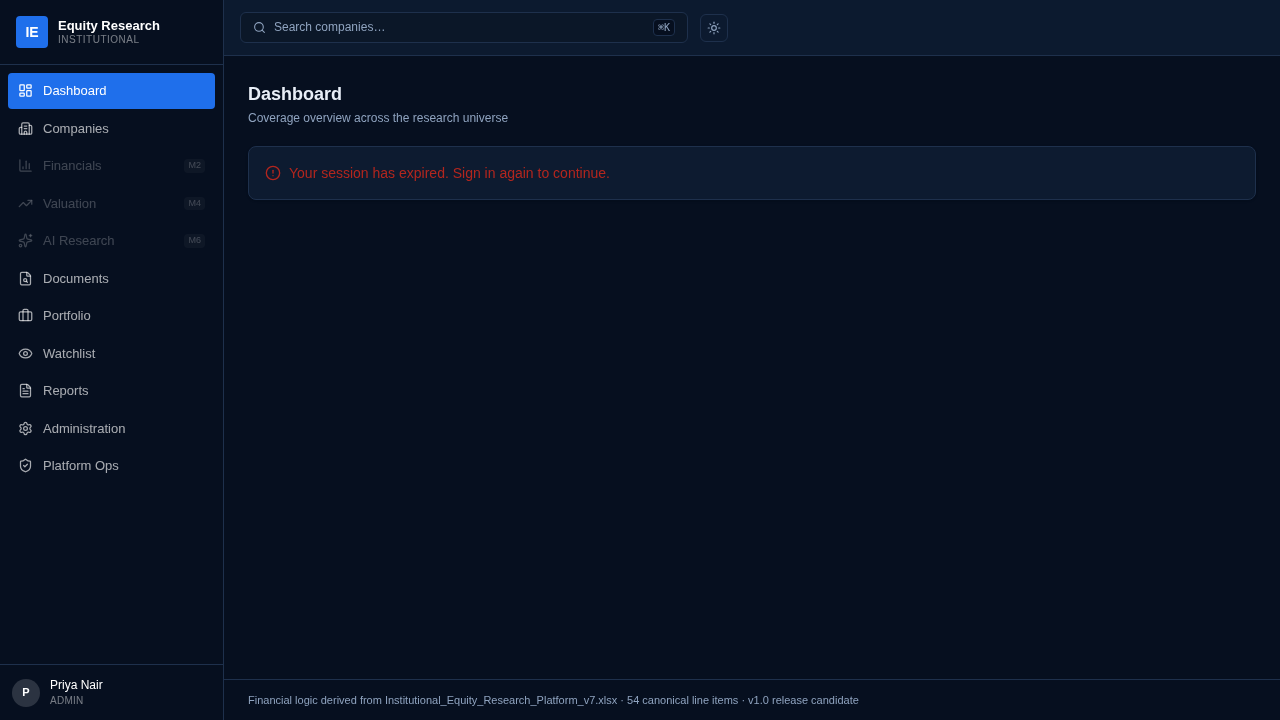
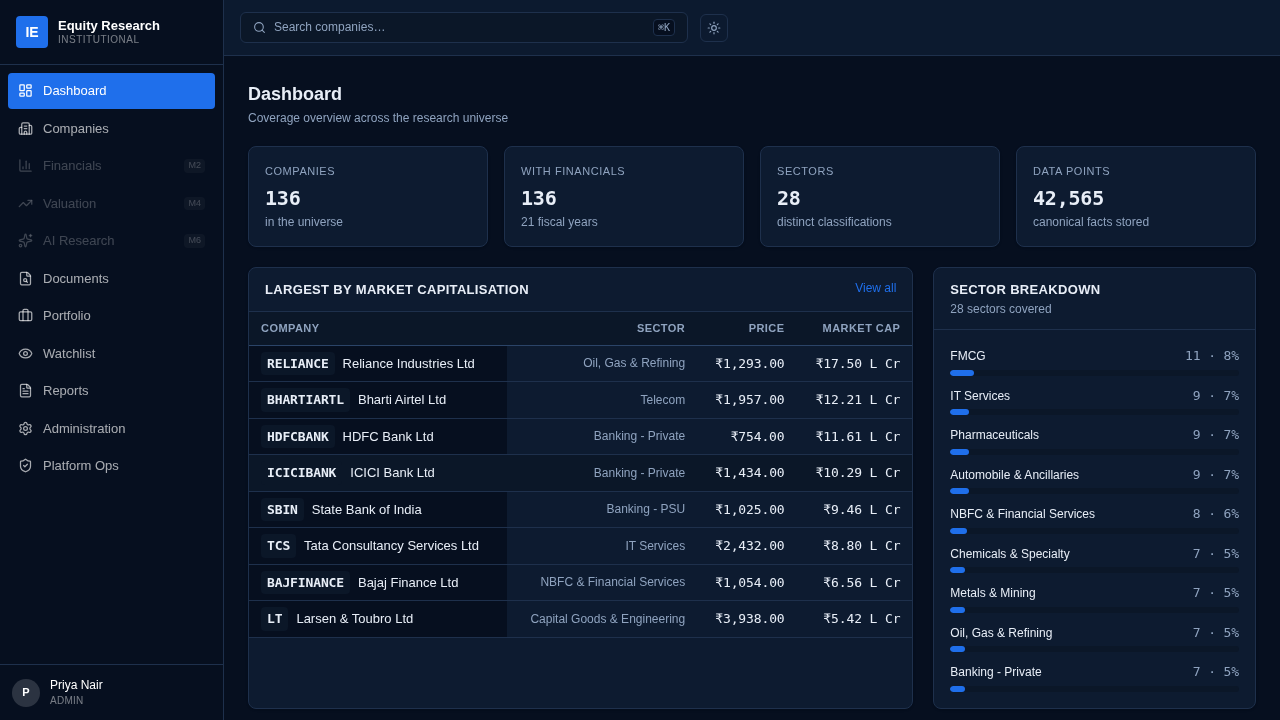
Document FE-001/FE-002: the frontend had no authentication path

diff --git a/docs/DEPLOYMENT_LIVE.md b/docs/DEPLOYMENT_LIVE.md
@@ -123,6 +123,35 @@ Plus platform seed data: 4 plans, 3 tenants, 9 users, 19,677 price rows.
 | **DEP-004** | Edge returned `502 Application failed to respond` while the container was healthy | Service domain targeted port 8000; uvicorn bound Railway's injected `PORT=8080` | Pinned `PORT=8000` to match the domain |
 | **DEP-005** | Frontend logged `✓ Ready` then `1/1 replicas never became healthy` | Next's standalone server reads `process.env.HOSTNAME \|\| '0.0.0.0'`, and Docker sets `HOSTNAME` to the container ID — so it bound to that name instead of all interfaces | `ENV HOSTNAME=0.0.0.0` in the runtime stage |
 | **DEP-006** | Frontend would have shipped calling `localhost:8000` | `NEXT_PUBLIC_*` is inlined at *build* time; with no `/frontend/railway.toml`, Railway used Railpack and never passed the Docker ARG | Added `frontend/railway.toml` with `[build.args]` |
+| **FE-001** | "Cannot reach the API. Start the backend on port 8000" and "No companies match 'TCS'" | The frontend **never authenticated**. It was built against `AUTH_DEV_MODE=true`, where every caller is a super admin, so it had no sign-in at all | `request()` now sends credentials; added `AuthProvider`, a sign-in screen, and a session gate |
+| **FE-002** | Dashboard stayed empty after signing in, until a manual reload | Queries that ran while anonymous cached their 401s; React Query never retried them | Invalidate all queries on sign-in and session restore; clear the cache on sign-out |
+
+### FE-001 in detail — the reported failure
+
+The environment variables were **not** baked incorrectly. The deployed bundle
+contained the production API host and zero `localhost:8000` references, and
+CORS was correct. The real fault was that the client had no way to
+authenticate:
+
+1. `request()` — used by the dashboard, the company list and search — sent no
+   credentials at all. Only `authed()` attached the `Authorization` header.
+2. `authApi.login` and `setSession` existed but were **never called**: a grep
+   across `src/app` and `src/components` returned nothing. There was no
+   sign-in UI, so the in-memory access token stayed `null` forever.
+3. Every call therefore returned `401`, and the dashboard rendered any error
+   as "Start the backend on port 8000" — a connectivity message for an
+   authentication failure. Search hit the same 401 and rendered its empty
+   state, "No companies match 'TCS'".
+
+This was invisible in development because `AUTH_DEV_MODE=true` treats every
+caller as a super admin. Production correctly enforces authentication, which
+exposed the gap.
+
+**An honest note on my earlier verification.** I previously observed these
+401s and judged them "correct for an anonymous visitor". That was wrong: I had
+proved the *backend* worked by calling it with `curl` and a bearer token,
+never that the *product* worked. A user who cannot sign in has no way to stop
+being anonymous. The authenticated harness now drives the real UI.
 
 ### DEP-005 in detail
 
@@ -190,6 +219,18 @@ An authenticated harness, because a `401` proves the guard and not the module.
 | 8 · Portfolio | Transaction → FIFO holding replayed from ledger, ₹1,200.50 average cost, live P&L, score and intrinsic value joined in |
 | 9 · Reports | 17 sections, 1,982 words, 7 charts, 11 tables, **100 % citation coverage (18/18)**; **51-page PDF** and valid `.docx` downloaded |
 | 10 · Tenancy | Tenant admin reachable; operator console correctly refused |
+
+### Frontend, verified in a real browser (post-fix)
+
+| Check | Result |
+|---|---|
+| Anonymous `/dashboard` | Sign-in screen shown; no "port 8000" message |
+| Sign in through the form | `POST /auth/login` → **200**, `/auth/me` → **200** |
+| Dashboard **without** reload | **136 companies · 136 with financials · 28 sectors · 42,565 data points** |
+| Search "TCS" | **1 matching company — Tata Consultancy Services Ltd**, ₹2,432.00, ₹8.80 L Cr |
+| Drill into TCS | Company page renders real financials |
+| Session across reload | Survives via the httpOnly refresh cookie |
+| All 8 authenticated pages | Render, no stale errors, no 5xx |
 
 ### Frontend, verified in a real browser
 
